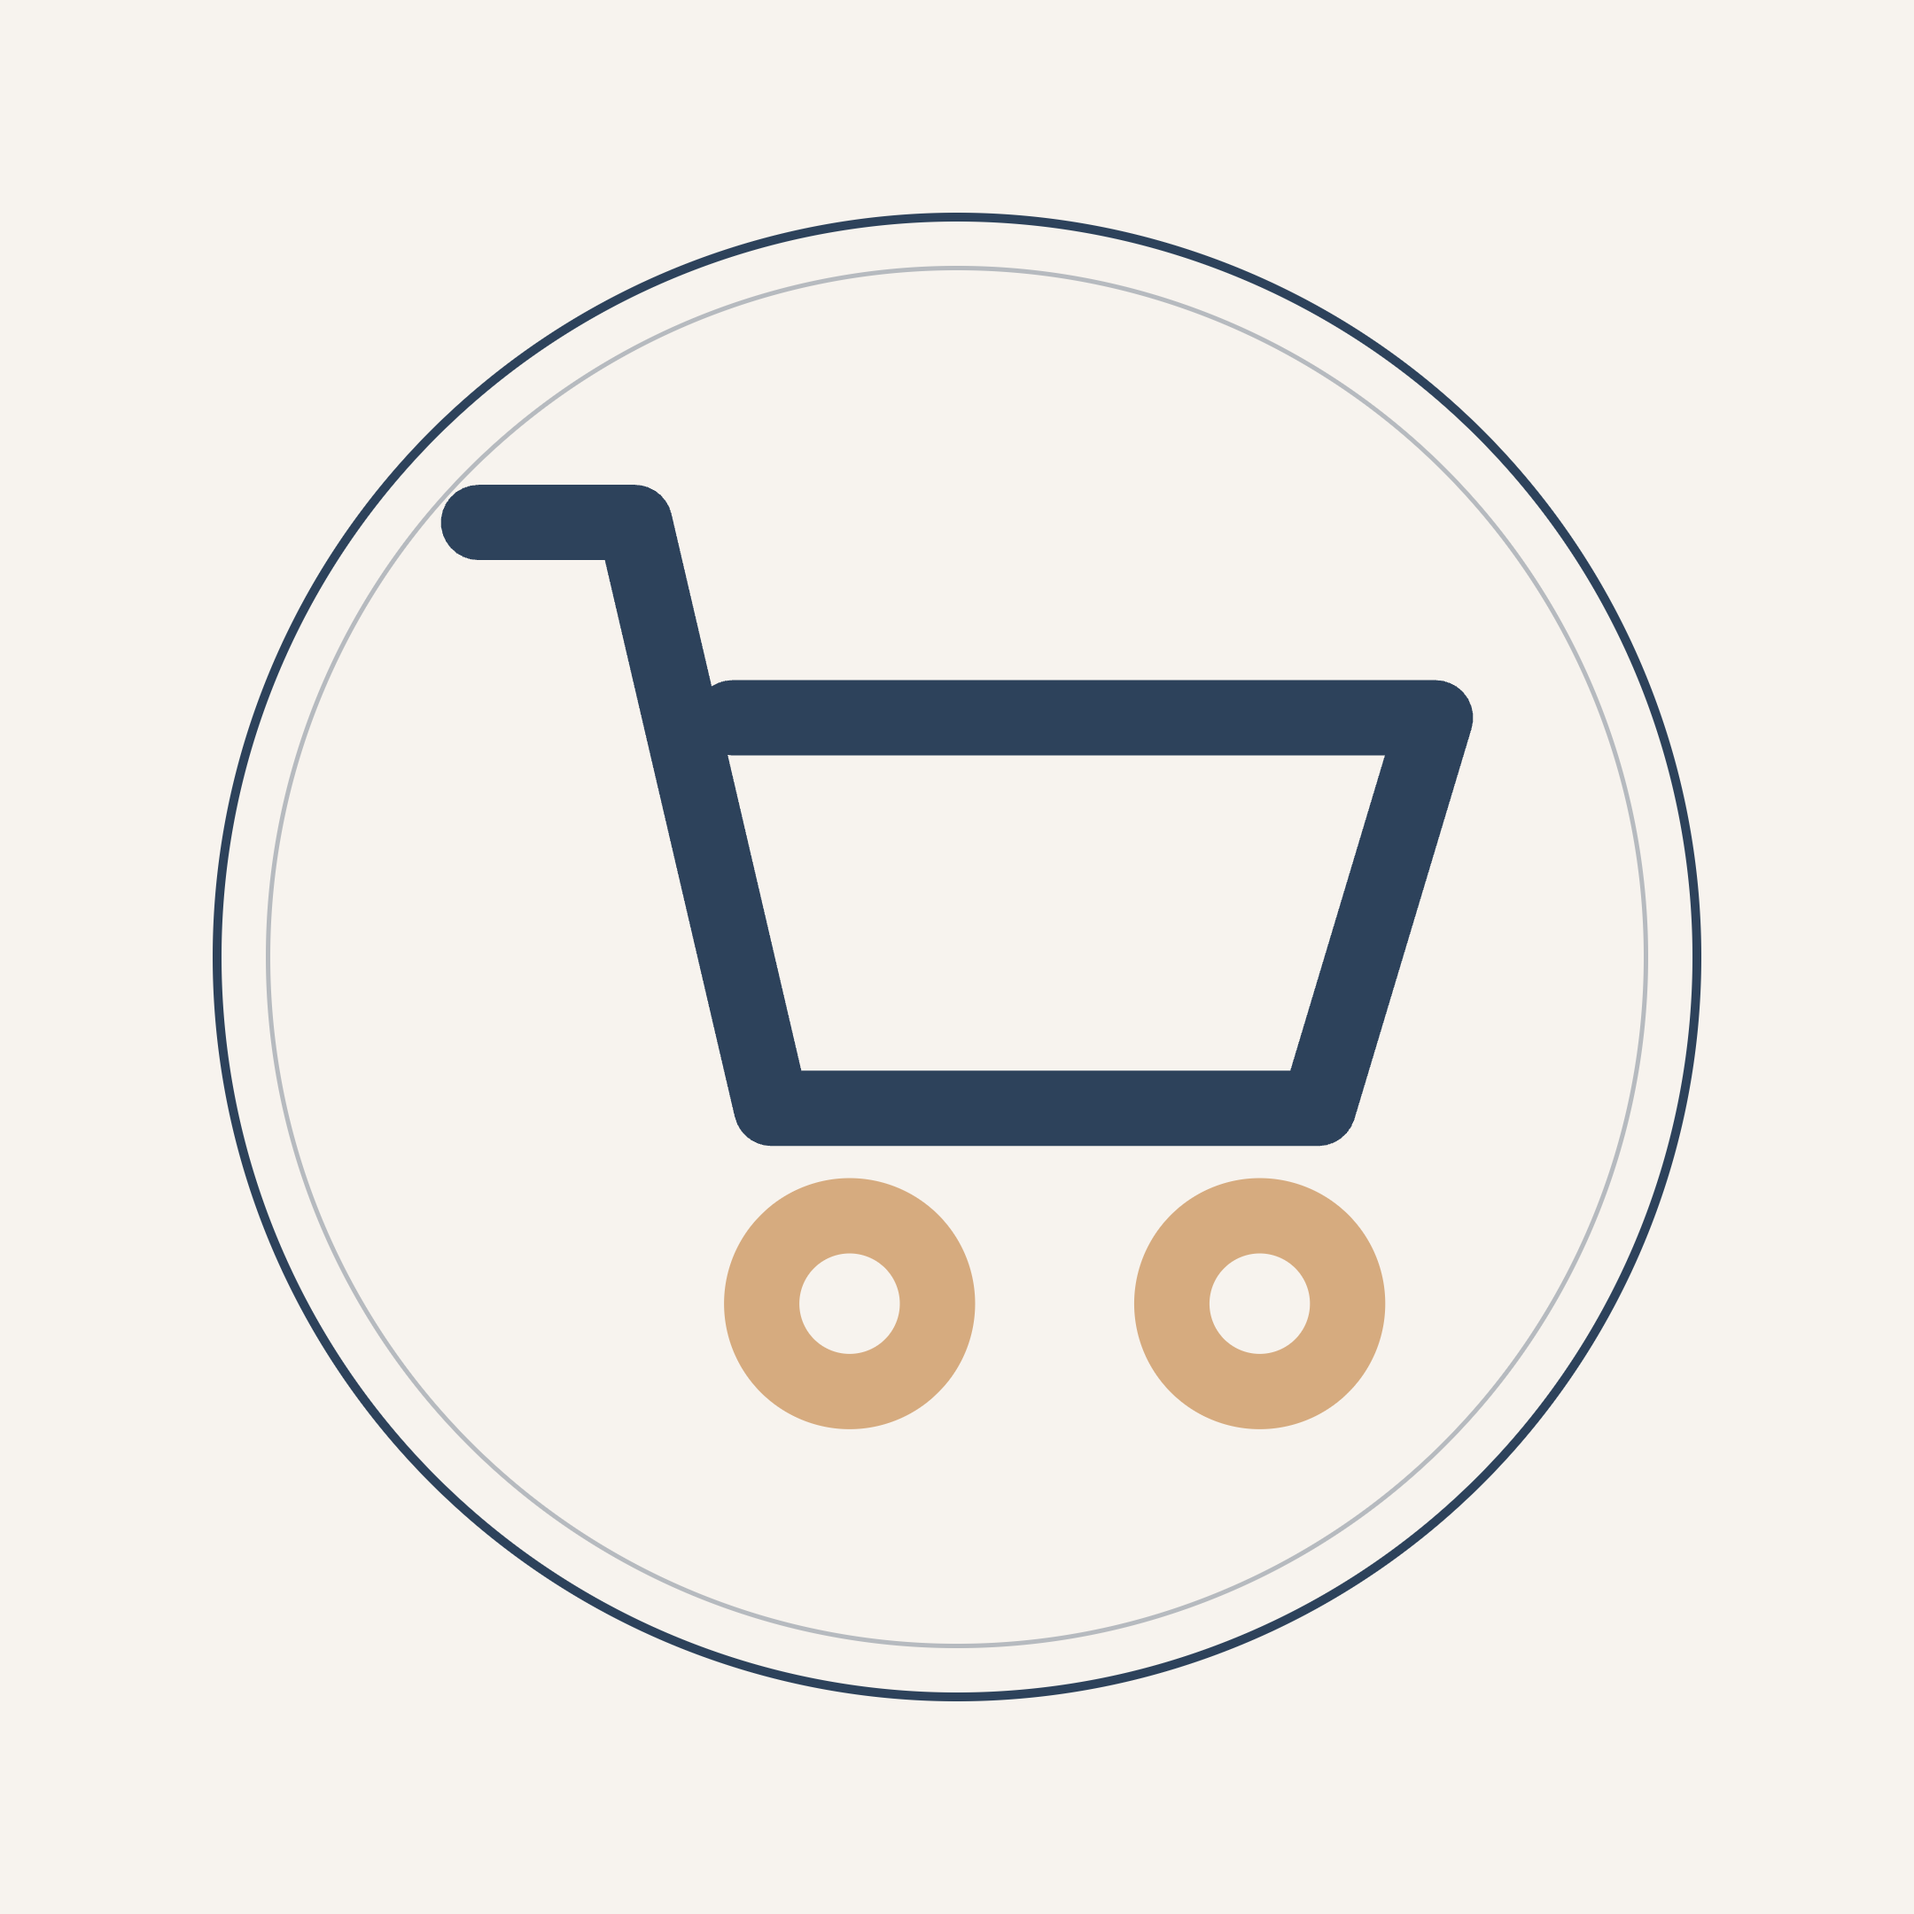
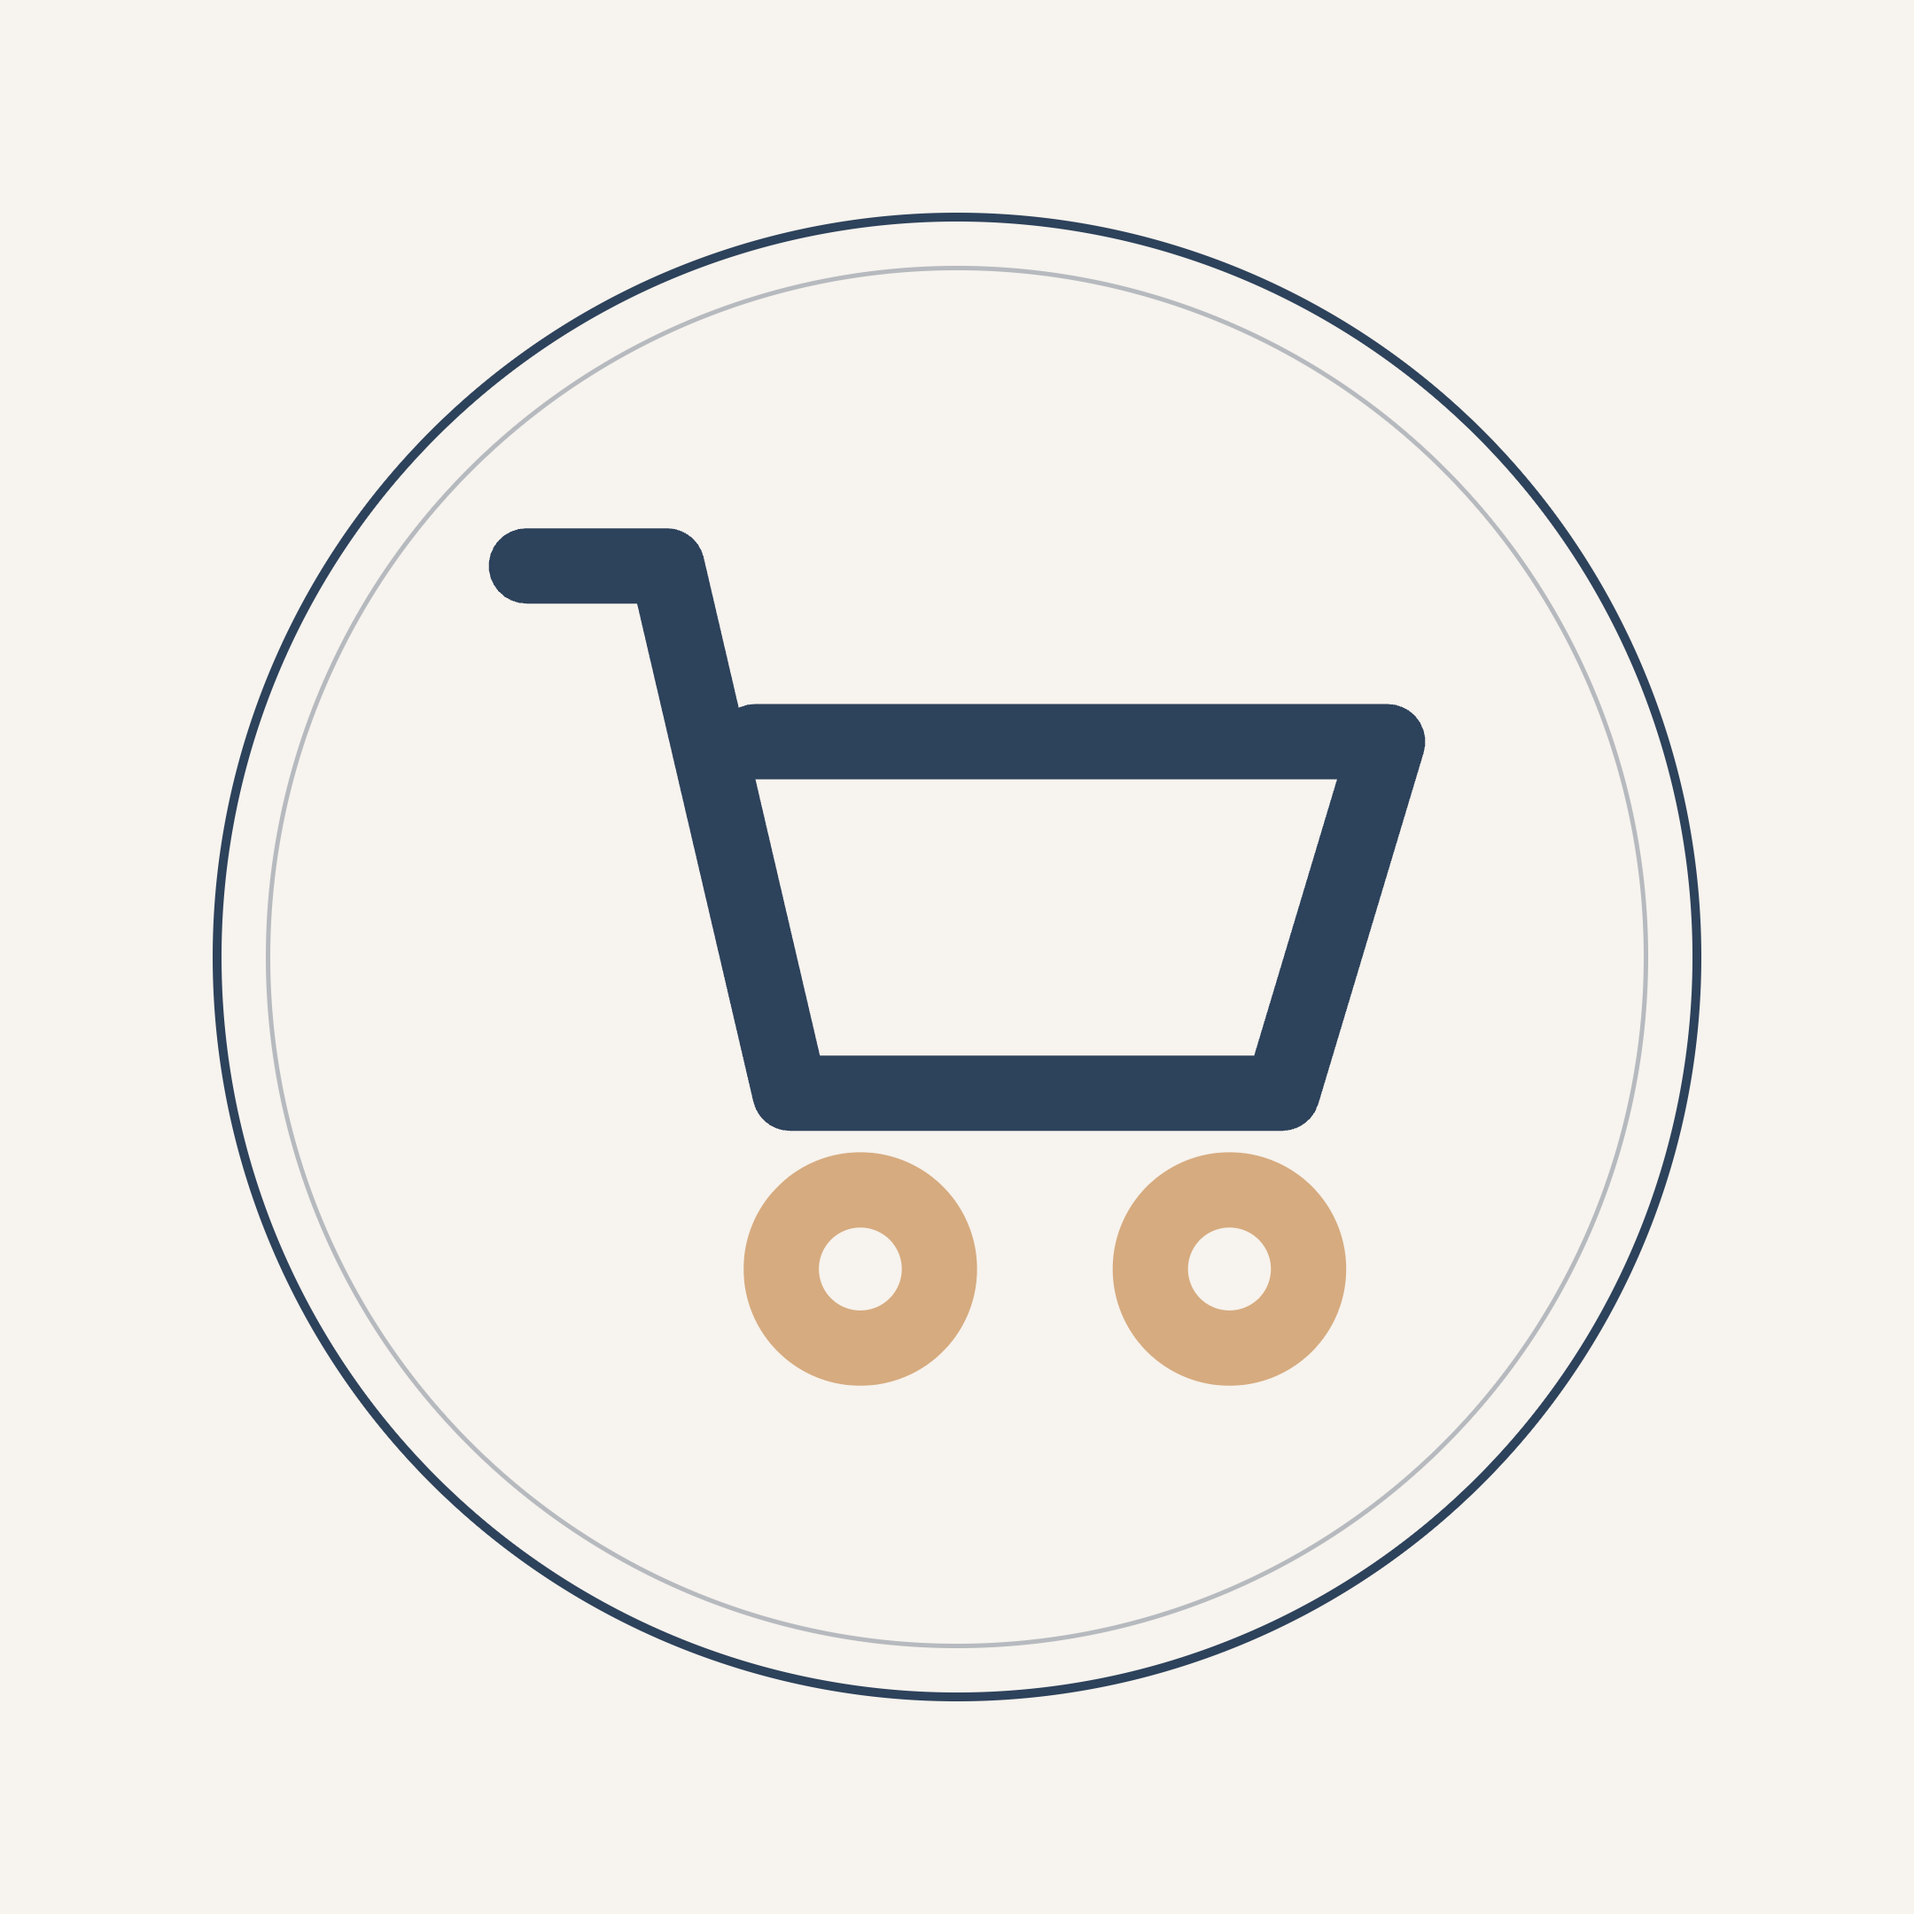
Shrink What to Buy cart another 10%

Changed region(s): [[0.2171, 0.2481, 0.7755, 0.7444]]

diff --git a/social/highlights.html b/social/highlights.html
@@ -126,7 +126,7 @@
   <div class="cell">
     <div class="stage"><div class="cover" id="cover-buy"><div class="bubble">
       <svg class="icon" viewBox="0 0 100 100">
-        <g transform="translate(50 50) scale(1.6902) translate(-48.5 -52.25)" style="stroke-width:3.856">
+        <g transform="translate(50 50) scale(1.52118) translate(-48.5 -52.25)" style="stroke-width:4.284">
           <!-- cart -->
           <path class="s" d="M24 30 H32 L39 60 H67 L73 40 H37"/>
           <circle class="a" cx="43" cy="70" r="4.5"/>
